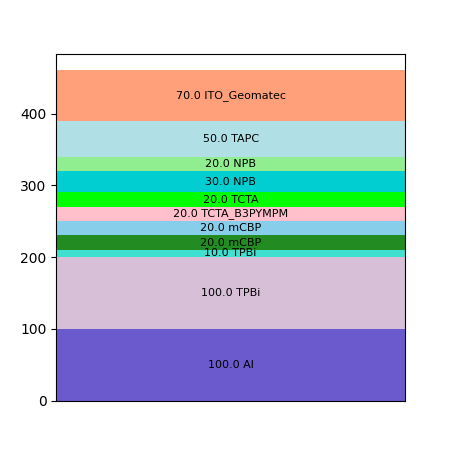
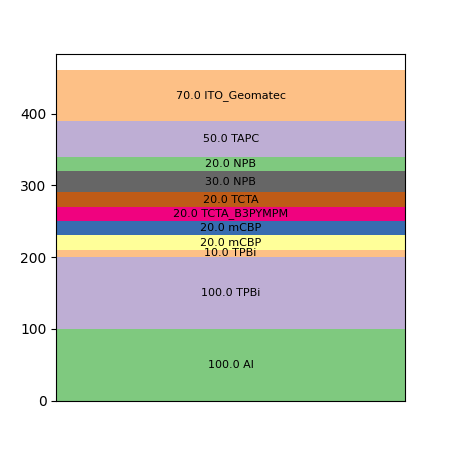
penProject

diff --git a/Qtcontrollers/elements_structure_graph.py b/Qtcontrollers/elements_structure_graph.py
@@ -43,7 +43,7 @@ class Elements_Structure_Graph(QWidget):
 
         tps = pd.DataFrame(list(zip(self.layer_name, self.thickness)), columns=['LayerName', 'Thickness'])
         tps.pivot_table(values=["Thickness"], columns="LayerName", aggfunc='sum')
-        colors = ["slateblue", "thistle", "turquoise", "forestgreen", "skyblue", "pink", "lime", "darkturquoise", "lightgreen", "powderblue","lightsalmon"]
+        colors = ['#7fc97f', '#beaed4', '#fdc086', '#ffff99', '#386cb0', '#f0027f', '#bf5b17', '#666666']
         tps.set_index('LayerName').T.plot(kind='bar', stacked=True, ax=self.ax, color=colors, width=200)
 
         for index, rect in enumerate(self.ax.patches):
